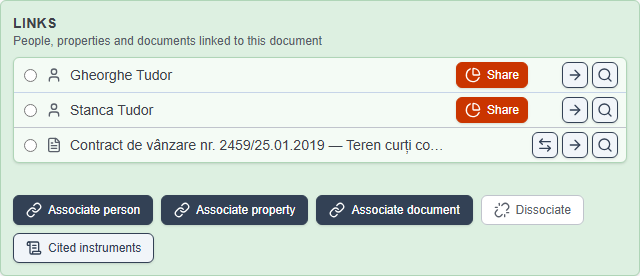
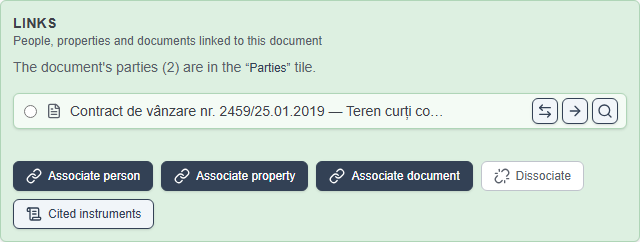
docs(manual): figure 6.3 re-shot in both languages — the antecontract's „Legături” says its parties are in „Părți” (#39.57)
Shot by the runner's targeted run 20261016T014842Z-4377 on dee2dcf: the dev seed's two invented
persons linked as „Promitent vânzător” and „Promitent cumpărător”, so „Legături” holds the
contract it fulfils and the line „Părțile actului (2) sunt în fișa „Părți”.” — no person's name
on it. TC-ASSOC-14's first run noted in its case file.

Claude-Session: https://claude.ai/code/session_01LgffAZxisYuj3ZLnqJSLN5

Changed region(s): [[0.0, 0.0579, 1.0, 0.6074], [0.0, 0.6653, 0.9375, 0.9545]]

diff --git a/docs/testing/cases/TC-ASSOC-14.md b/docs/testing/cases/TC-ASSOC-14.md
@@ -50,3 +50,6 @@ All four are deleted at the end.
 „Șterge" and **„Da"** on the antecontract („Ștergeți actul?") and on each person („Ștergeți persoana?").
 
 ## Notes from the runs
+
+**2026-10-15 — `automated` (Slice #39.57).** Its spec, `e2e/association/antecontract-parties.spec.ts`, green in the test
+runner's targeted run `20261016T014842Z-4377`, every step as written.
